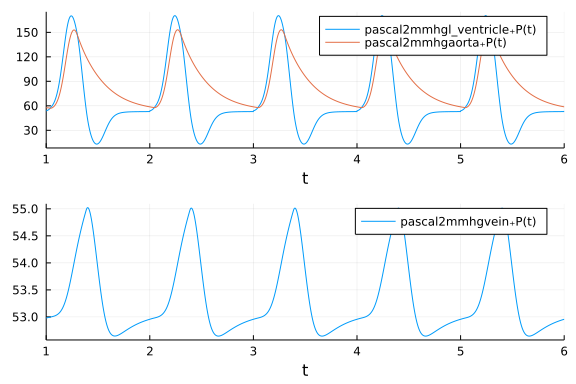
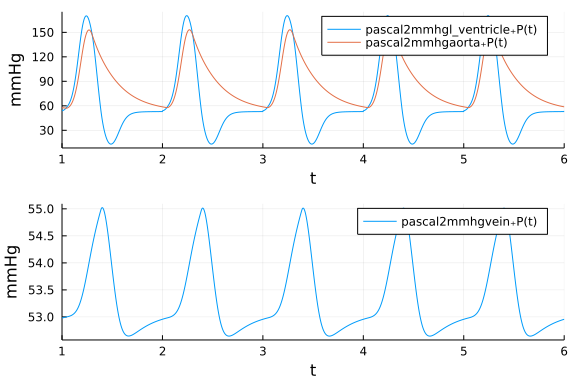
reorganize components

diff --git a/demo/three_compartment_model/README.md b/demo/three_compartment_model/README.md
@@ -76,7 +76,7 @@ m32ml (generic function with 1 method)
 ```julia
 plot_v1 = plot(sol, vars=[(m32ml, 0, l_ventricle.V), (m32ml, 0, aorta.V)], tspan =  (1,6));
 plot_v2 = plot(sol, vars=[(m32ml, 0, vein.V)], tspan =  (1,6));
-plot(plot_v1, plot_v2, layout = (2,1))
+plot(plot_v1, plot_v2, layout = (2,1), ylabel = "ml")
 ```
 
 ![](figures/three_compartment_model_3_1.png)
@@ -87,7 +87,7 @@ plot(plot_v1, plot_v2, layout = (2,1))
 ```julia
 plot_p1 = plot(sol, vars=[(pascal2mmhg, 0,l_ventricle.P), (pascal2mmhg, 0,aorta.P)], tspan =  (1,6));
 plot_p2 = plot(sol, vars=[(pascal2mmhg, 0, vein.P)], tspan =  (1,6));
-plot(plot_p1, plot_p2, layout = (2,1))
+plot(plot_p1, plot_p2, layout = (2,1), ylabel = "mmHg")
 ```
 
 ![](figures/three_compartment_model_4_1.png)
